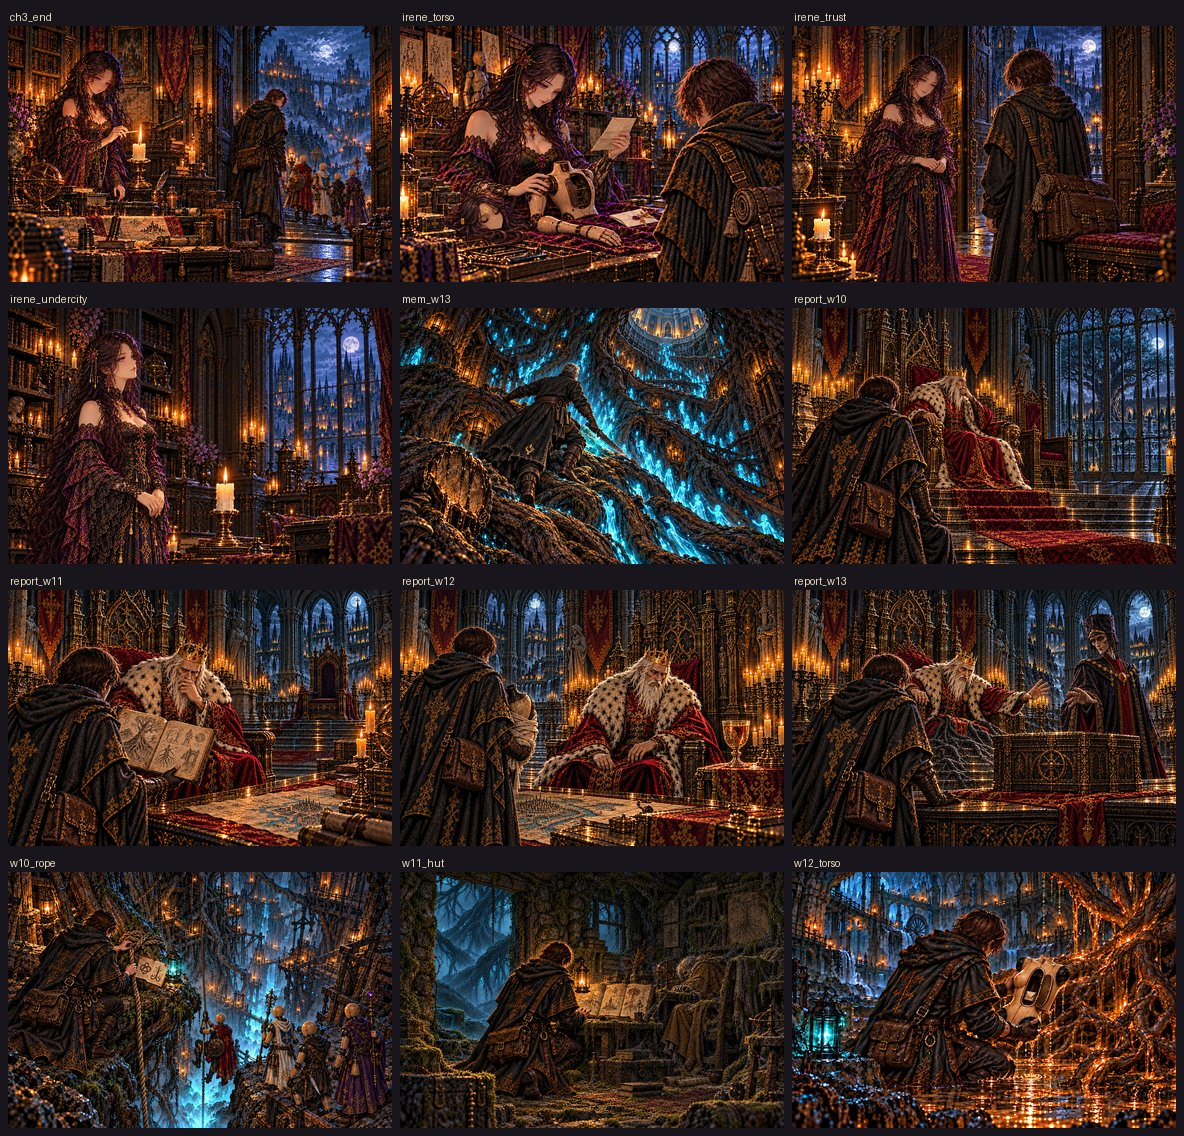
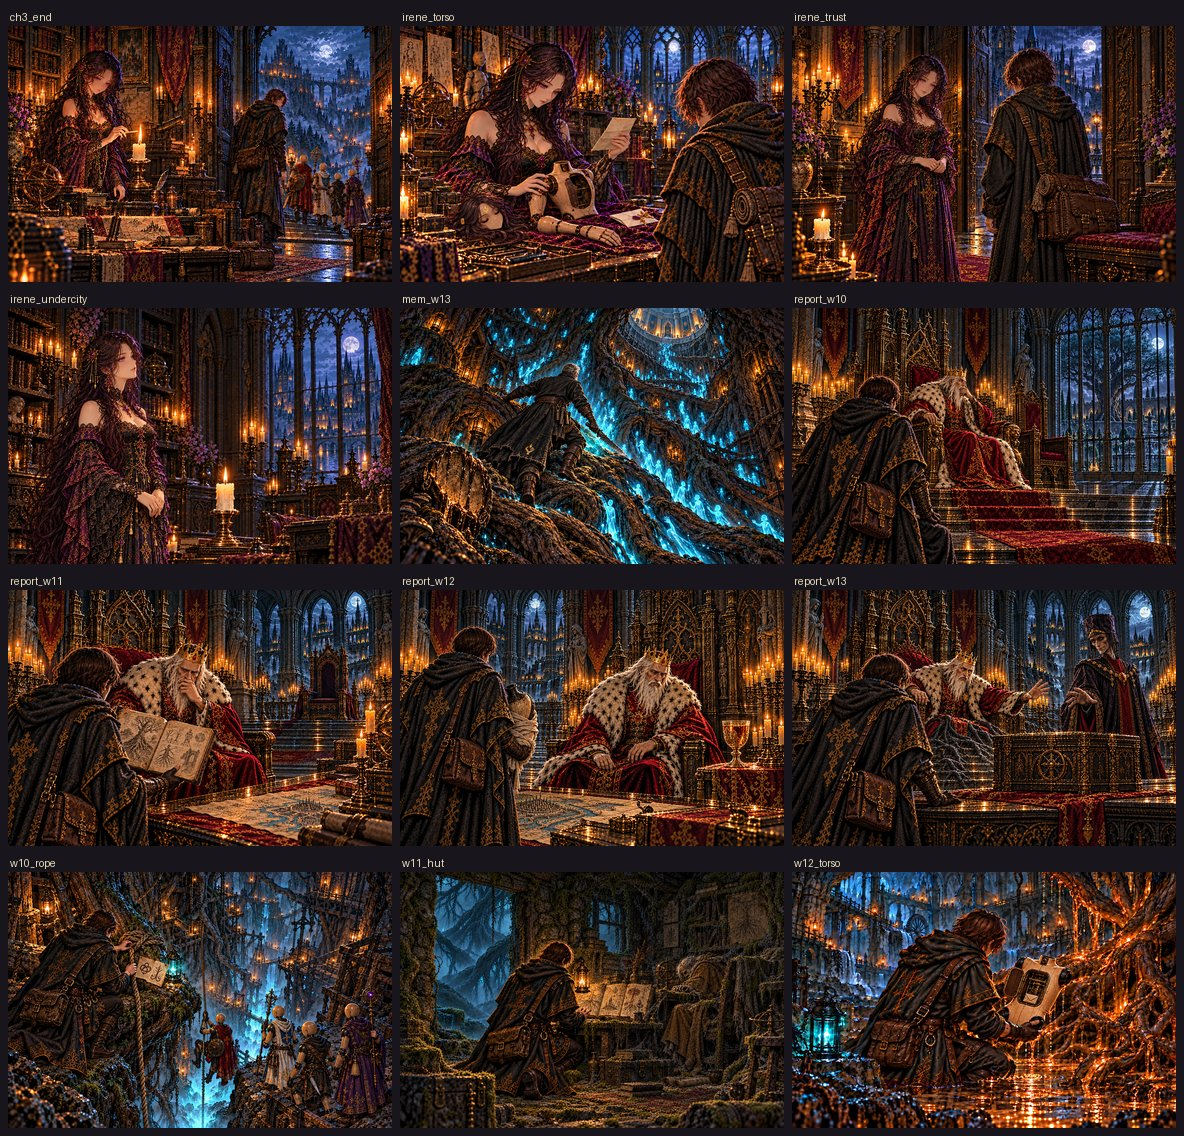
セラの胴を館の修復場面と同じ造形に統一

diff --git a/docs/art/codex-story-art-brief.md b/docs/art/codex-story-art-brief.md
@@ -343,11 +343,12 @@ Character reference sheet on a plain dark slate-blue background with soft even l
 ```
 
 **A-11. 第三章 w12_torso「軽すぎる帰りの荷」** `art/story-review/chapter3/w12_torso.png` (済)
+- 追加のユーザー指示: セラの胴全体を `art/story-review/chapter3/irene_torso.png` と同じ造形にそろえる。胸の膨らみを抑えた平らな木製の外殻、金縁の黒鉄の肩・腰の継ぎ目、短い首の受け口、胸中央の丸みのある縦長の扉と内部機構を合わせる。胸の紙は残す。
 - 追加のユーザー指示: セラの胴の乳首を消し、胸の面は滑らかな木目にする。胸の扉と中の紙は保つ。
 - 追加のユーザー指示: 腹の低い位置の四角い開口を、`chapter3/irene_torso.png` の胸中央の縦長で角の丸い扉へ合わせる。首の下から胸骨に沿う位置とし、腹は滑らかな木肌に戻す。扉の中の折り畳んだ紙は残す。
 - 直す: 胴の胸に星形の紋 → 外す。本文は「背に彫られた、灯を掌に載せた手」なので、胴を少し回して背の印 (掌に炎) が見えるようにするか、胸は無地に。胸の扉と中の紙は保つ。
 ```text
-...except: correct ONLY Sera's chest hatch using the attached irene_torso reference. Replace the misplaced low rectangular abdominal opening and box-shaped lid with a vertically elongated, rounded-corner chest door centered along the sternum, beginning below the neck and ending above the abdomen. Match the reference torso construction: gently curved continuous wooden chest shell, narrow dark metal rim, small side hinges, curved wooden door swung outward. Keep ONE folded paper inside this chest cavity, no soul-fire before awakening. Restore the old abdominal opening to uninterrupted smooth wood grain. Keep the torso orientation, neck and joint sockets, apprentice, hands, roots, background, composition, fine texture, colors and lighting exactly. No nipples, front crest, extra parts or readable writing.
+...except: replace ONLY Sera's detached wooden torso with the EXACT SAME torso design seen on the workbench in the attached art/story-review/chapter3/irene_torso.png reference. Match its flat, gently curved continuous pale wooden chest shell WITHOUT sculpted breasts, compact proportions, short neck socket, panel seams and tiny rivets, black iron shoulder and hip joint sockets with gold rims, and central vertically elongated rounded chest hatch with dark rim and brass hardware. The torso must look like the SAME physical object carried from this discovery to that workshop. Match the reference hatch location and broader rounded-rectangular opening, with its door swung toward the viewer’s left and visible delicate internal brass clockwork, bars and circular fittings. Replace the old narrow hatch and empty dark cavity entirely. Keep ONE folded paper inside the chest cavity, no soul-fire before awakening. Keep the existing orientation and perspective in the apprentice's hands, adapting the reference design to that view. Keep the apprentice, hands, roots, background, composition, fine texture, colors and lighting exactly. No nipples, sculpted breasts, front crest, extra parts or readable writing. Use irene_torso.png as the authoritative torso reference, taking precedence over other character sheets for this object.
 ```
 
 **A-12. 第三章 mem_w13「魂の流れを登る師」** `art/story-review/chapter3/mem_w13.png` (済)
